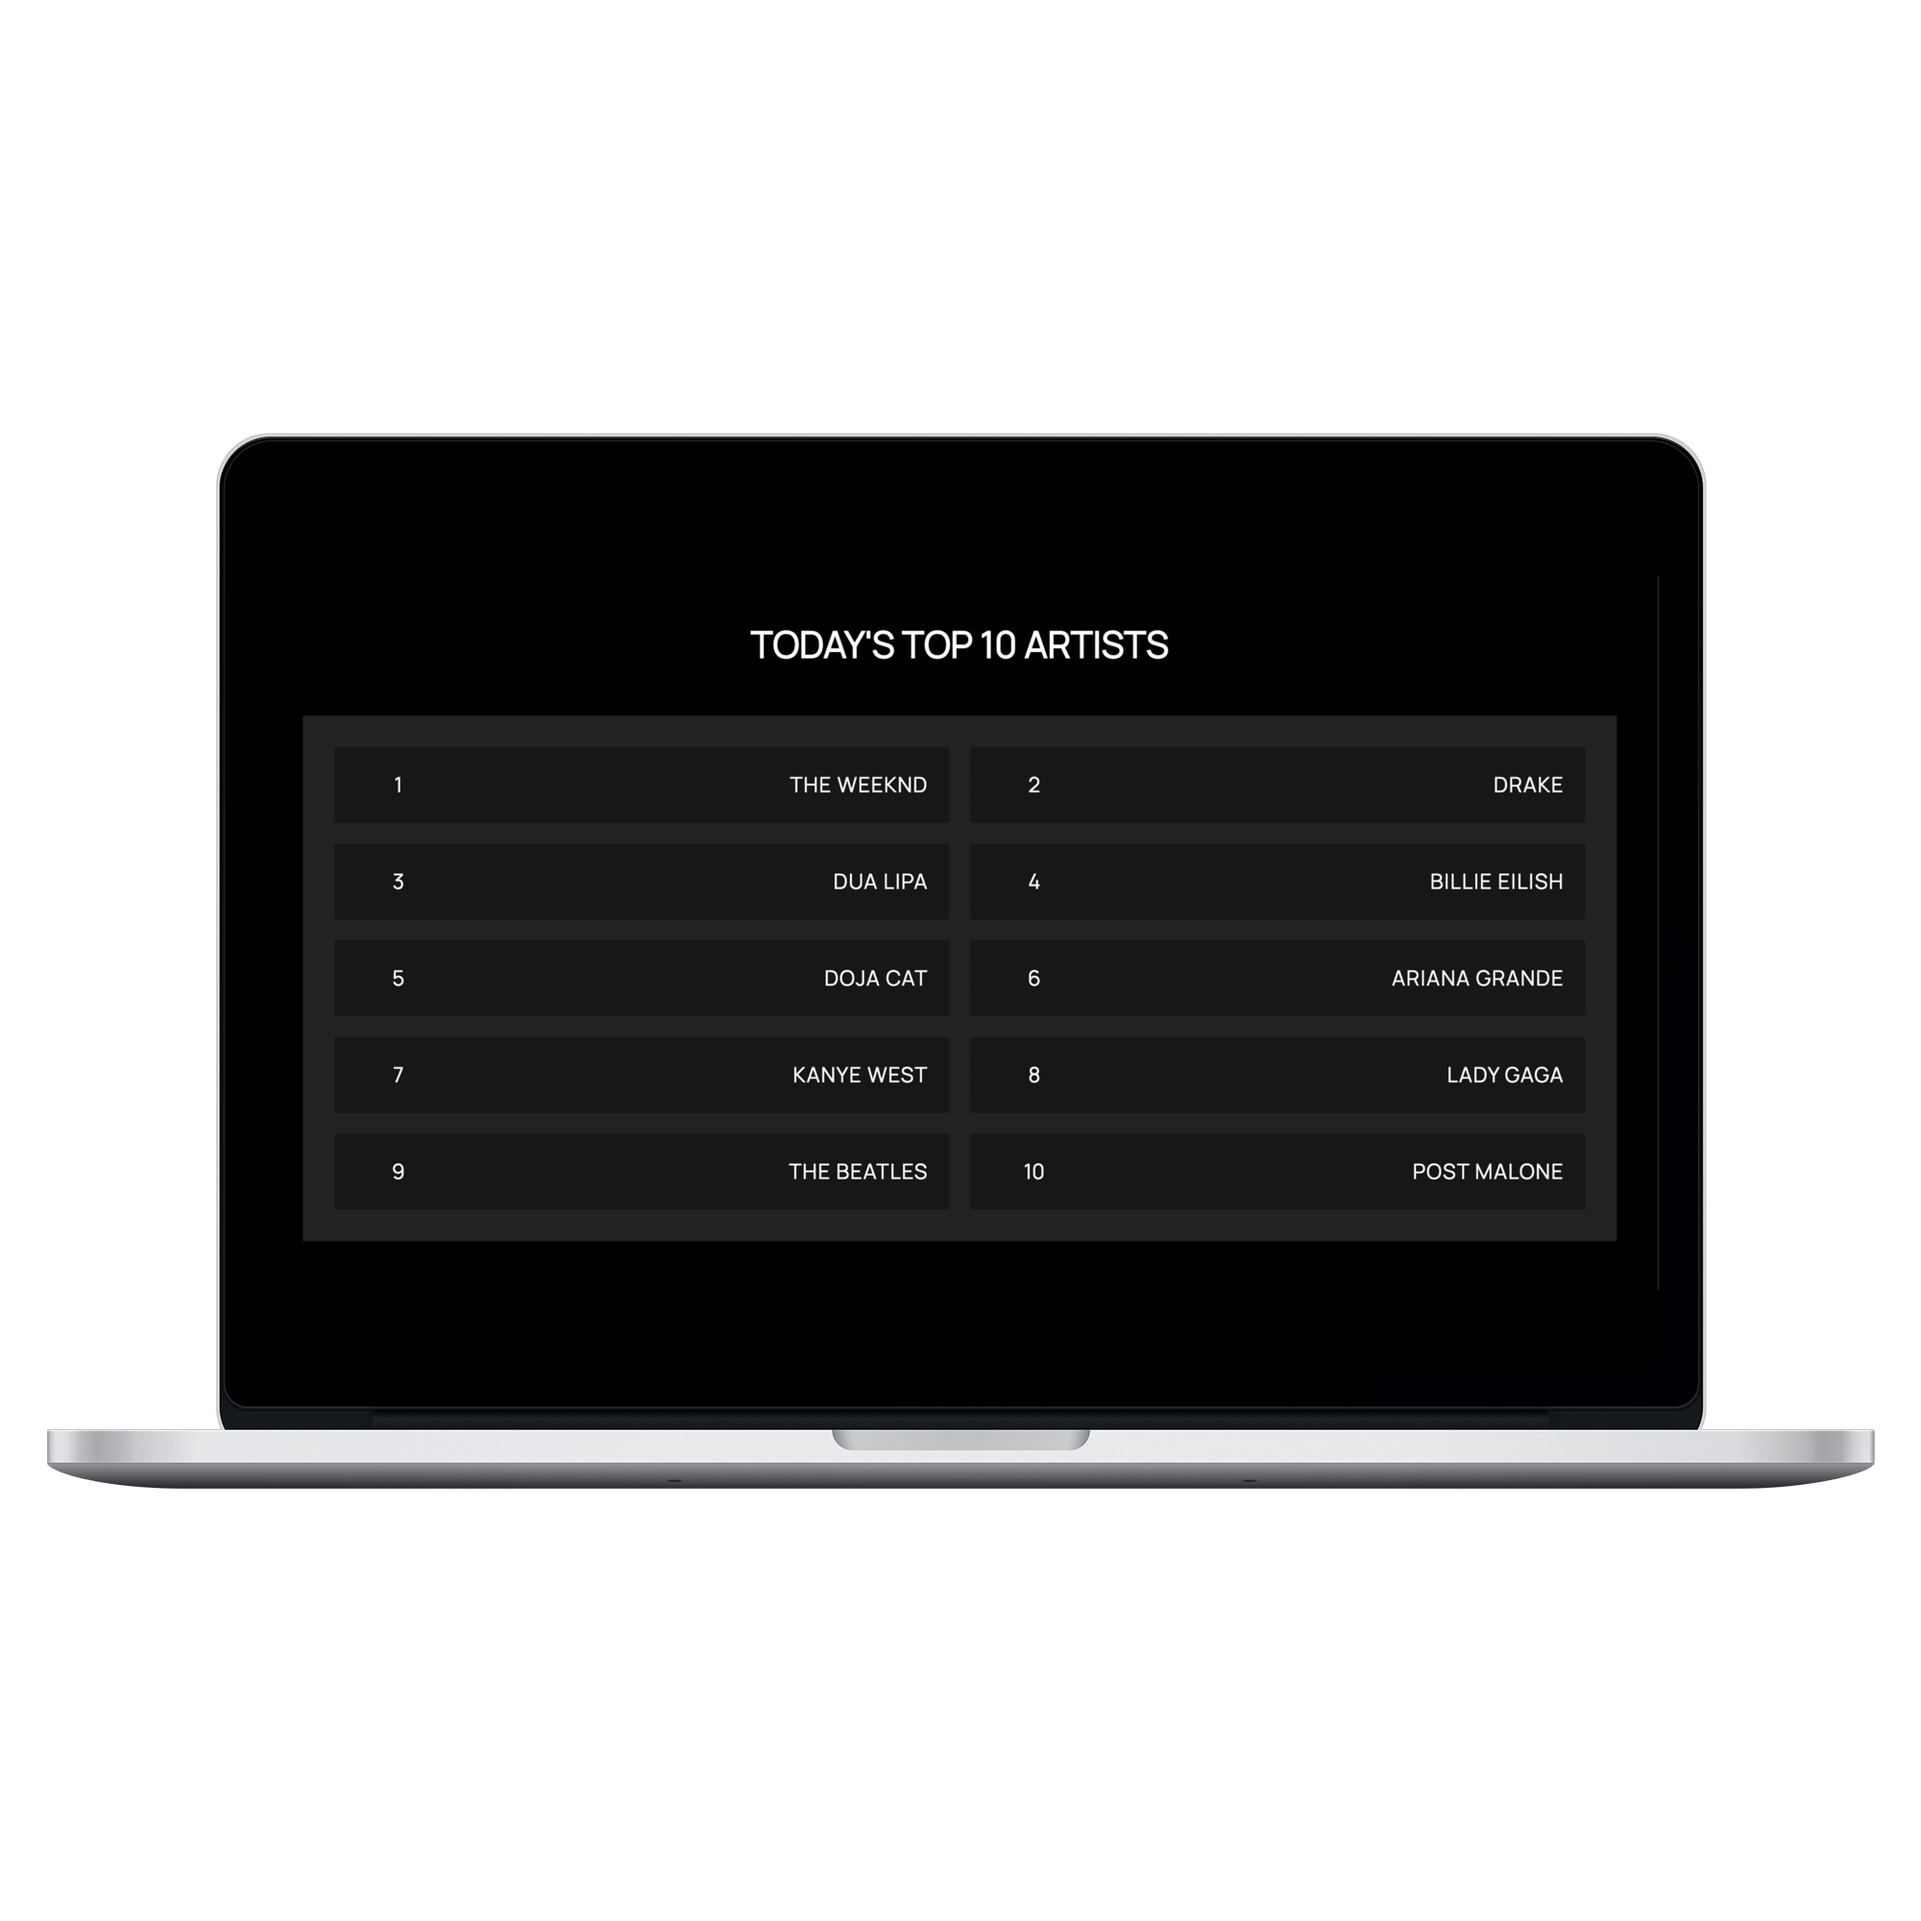
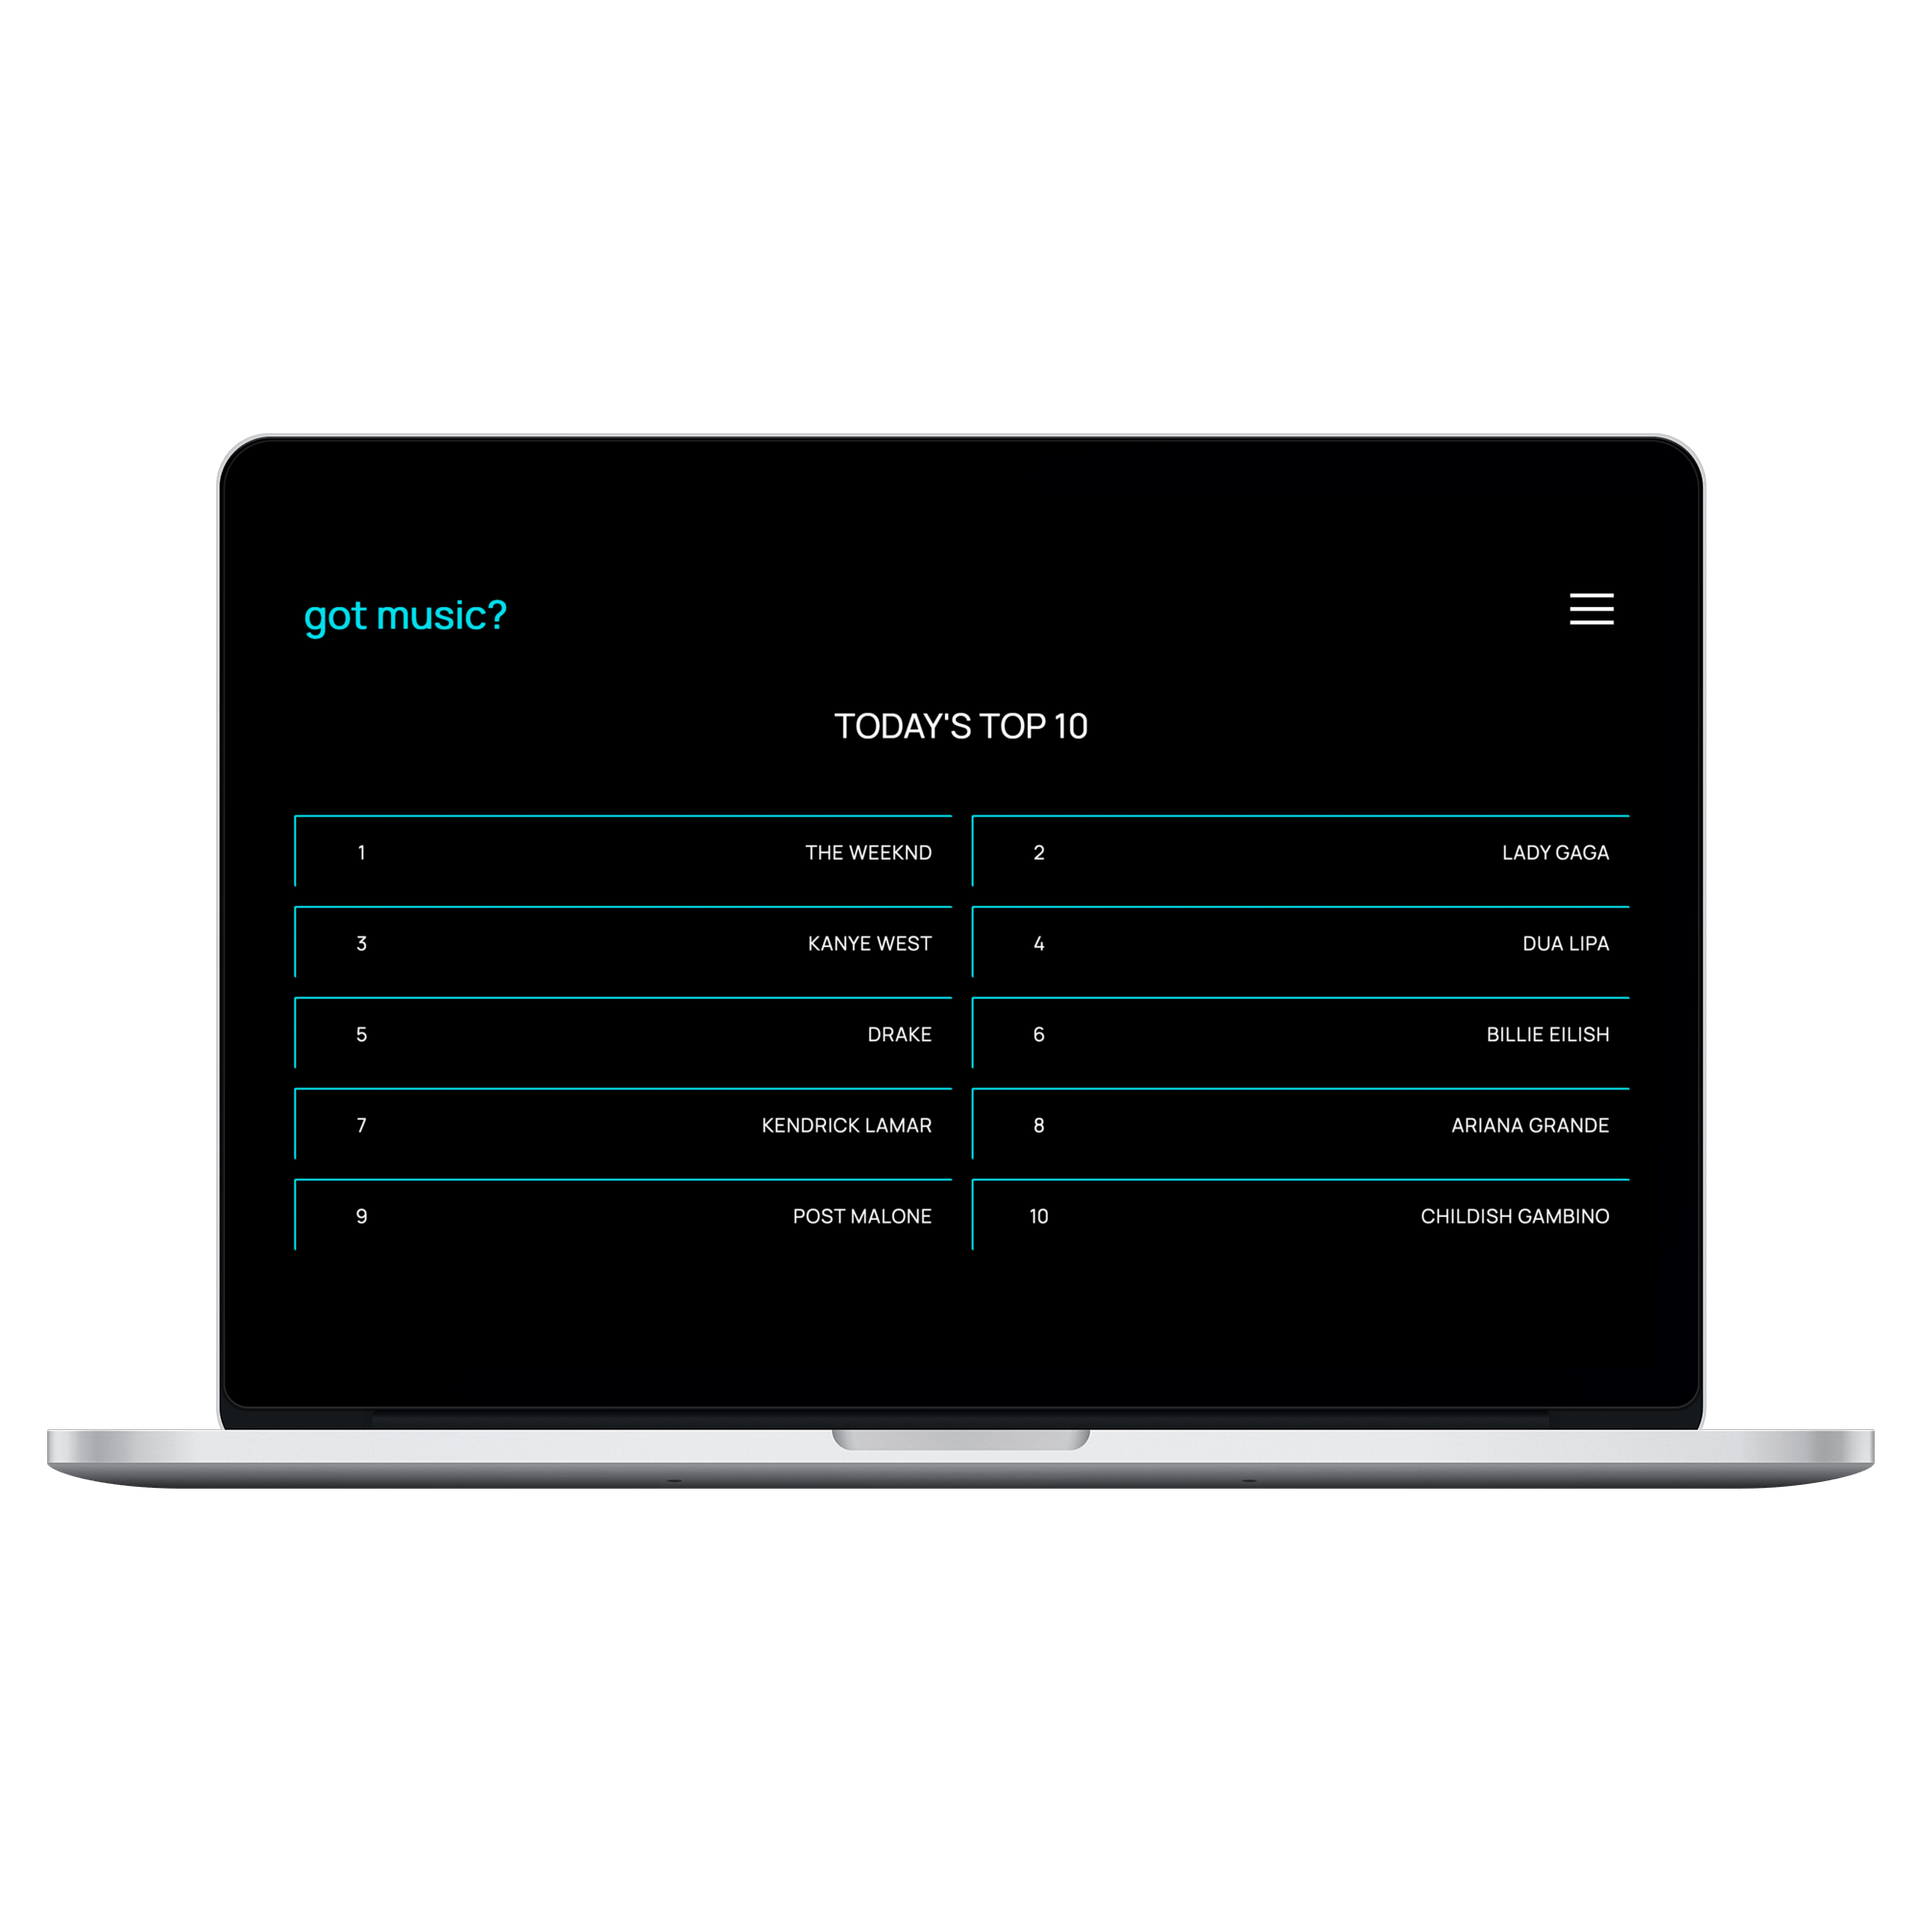
Got Music and linking

diff --git a/index.html b/index.html
@@ -261,7 +261,7 @@
                 <div class="current-title">
                     <h2><span>Current Projects</span>
                     </h2>
-                    <p>Skills grow. So will this portfolio!</p>
+                    <p>Skills grow. So will this portfolio.</p>
                 </div>
 
                 <div class="project-container" style="overflow-x: hidden">
@@ -347,15 +347,14 @@
                             </div>
                             
                             <div class="project-links">
-                                <!-- Live link coming soon -->
-                                <!-- <a href=""
+                                <a href="https://afuadeborah.github.io/got-music/"
                                 target="_blank" 
                                 rel="noopener noreferrer" 
                                 tabIndex="0"
                                 aria-hidden="true"
                                 title= "Live link to Got Music?"
                                 >Live Site</a>
-                                <span>|</span> -->
+                                <span>|</span>
                                 <a href="https://github.com/afuadeborah/got-music"
                                 target="_blank" 
                                 rel="noopener noreferrer" 
@@ -372,57 +371,6 @@
 
                     </div>
 
-                    <!-- Spotify Form -->
-                    <div class="project current-three">
-
-                        <div class="mockup" data-aos="zoom-in-right" data-aos-duration="1500">
-                            <img src="./assets/spotfiy-form.png" alt="Mockup of Spotify Form on 15 inch Macbook Pro">
-                        </div>
-
-                        <div class="project-text" data-aos="zoom-in-left" data-aos-duration="1500">
-                            <h3>Spotify Sign-Up</h3>
-                            <p>Are you a robot?</p>
-                            <p>My take on Spotify's sign-up form. An exercise in forms, error handling, and conversions from client design.</p>
-
-                            <div class="made-with">
-                                <h4>Made With</h4>
-                                <ul class="project-icons-container">
-                                    <li>
-                                        <span aria-hidden="true" class="devicons devicons devicons-html5"
-                                        title="HTML5"></span>
-                                    </li>
-
-                                    <li>
-                                        <span aria-hidden="true" class="devicons devicons-sass" title="SASS"></span>
-                                    </li>
-                                    <li>
-                                        <span aria-hidden="true" class="devicons devicons-javascript_badge" title="Javascipt & ES6"></span>
-                                    </li>
-                                </ul>
-
-                            </div>
-
-                            <div class="project-links">
-                                <!-- Live link coming soon -->
-                                <!-- <a href="https://afuadeborah.github.io/"
-                                target="_blank" 
-                                rel="noopener noreferrer" 
-                                tabIndex="0"
-                                aria-hidden="true"
-                                title= "Live link to Spotify Form"
-                                >Live Site</a>
-                                <span>|</span> -->
-                                <a href="https://github.com/afuadeborah/spotify-form"
-                                target="_blank" 
-                                rel="noopener noreferrer" 
-                                tabIndex="0"
-                                aria-hidden="true"
-                                title= "Spotify Form on Github"
-                                >Github</a>
-                            </div>
-
-                        </div>
-                    </div>
                 
                 </div>
 
@@ -432,7 +380,7 @@
         <div class="spacer"></div>
 
         <!-- Projects -->
-        <section class="projects" id="projects">
+        <section class="projects">
             <div class="wrapper">
 
                 <h2><span>Projects</span></h2>
